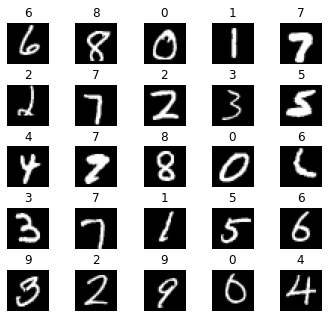
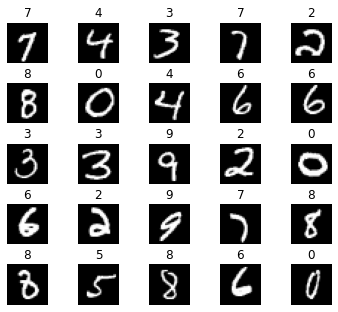
Images!

diff --git a/README.md b/README.md
@@ -25,6 +25,8 @@ So we have to find a way to extract images!
 
 ![Alt text](./assets/image3.png?raw=true)
 
+![Alt text](./assets/train.jpg?raw=true)
+
 ## Do not cheat!
 
 There is known ways to cheat in Kaggle Competitions where you fill test_csv with train_csv data and so you know the answer! **Don't do that you ruin the concept**
